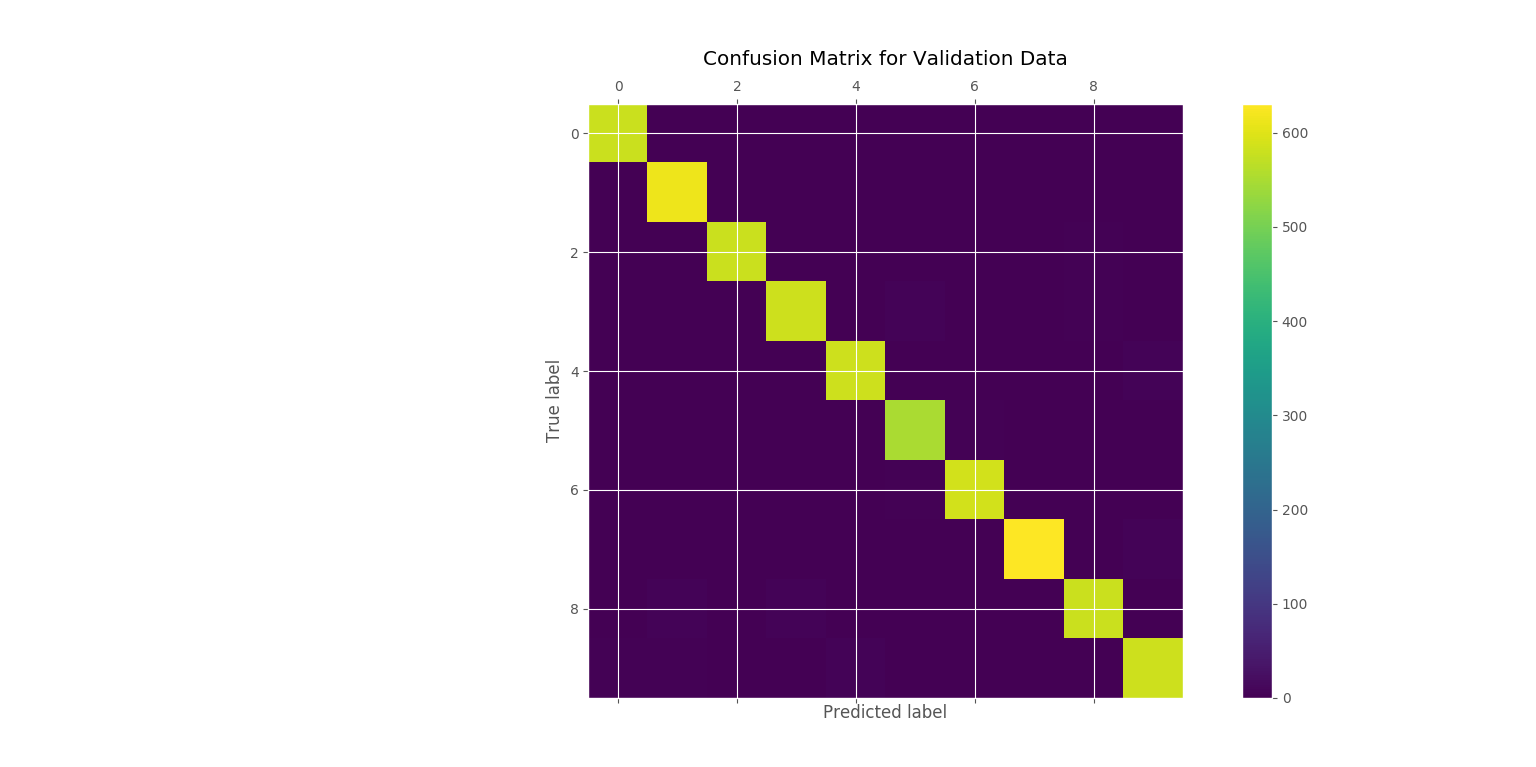
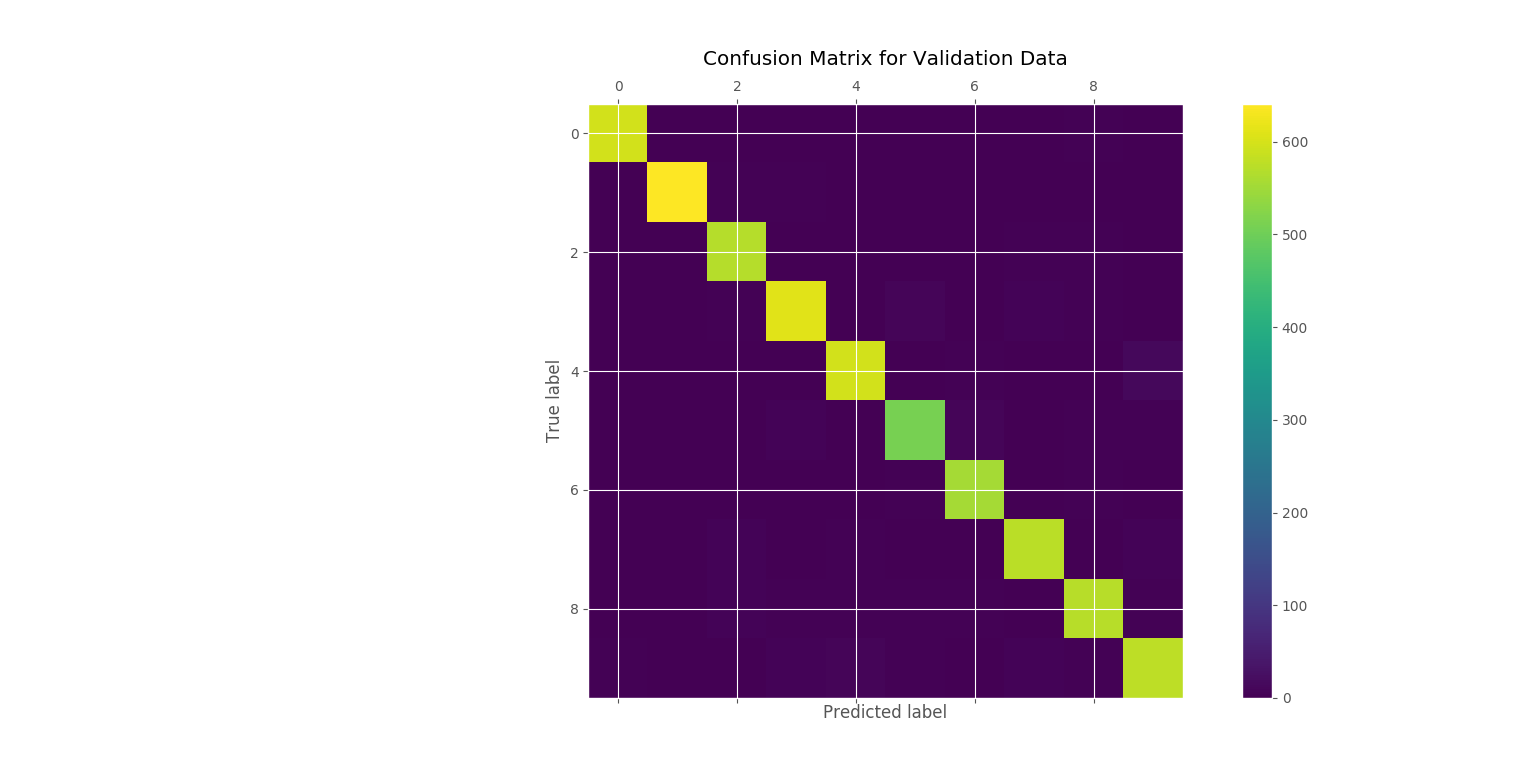
Add files via upload

Changed region(s): [[0.5625, 0.5098, 0.7188, 0.7797]]

diff --git a/RFC.py b/RFC.py
@@ -1,0 +1,119 @@
+# Random Forest Classifier
+
+import sys
+import numpy as np
+import pickle
+from sklearn import model_selection
+from sklearn.ensemble import RandomForestClassifier
+from sklearn.metrics import accuracy_score, confusion_matrix
+from MNIST_Dataset_Loader.mnist_loader import MNIST
+import matplotlib.pyplot as plt
+from matplotlib import style
+style.use('ggplot')
+
+
+
+old_stdout = sys.stdout
+log_file = open("summary.log","w")
+sys.stdout = log_file
+
+
+print('\nLoading MNIST Data...')
+# data = MNIST('./python-mnist/data/')
+
+data = MNIST('./MNIST_Dataset_Loader/dataset/')
+
+print('\nLoading Training Data...')
+img_train, labels_train = data.load_training()
+train_img = np.array(img_train)
+train_labels = np.array(labels_train)
+
+print('\nLoading Testing Data...')
+img_test, labels_test = data.load_testing()
+test_img = np.array(img_test)
+test_labels = np.array(labels_test)
+
+
+#Features
+X = train_img
+
+#Labels
+y = train_labels
+
+print('\nPreparing Classifier Training and Validation Data...')
+X_train, X_test, y_train, y_test = model_selection.train_test_split(X,y,test_size=0.1)
+
+
+print('\nRandom Forest Classifier with n_estimators = 100, n_jobs = 10')
+print('\nPickling the Classifier for Future Use...')
+clf = RandomForestClassifier(n_estimators=100, n_jobs=10)
+clf.fit(X_train,y_train)
+
+with open('MNIST_RFC.pickle','wb') as f:
+	pickle.dump(clf, f)
+
+pickle_in = open('MNIST_RFC.pickle','rb')
+clf = pickle.load(pickle_in)
+
+print('\nCalculating Accuracy of trained Classifier...')
+confidence = clf.score(X_test,y_test)
+
+print('\nMaking Predictions on Validation Data...')
+y_pred = clf.predict(X_test)
+
+print('\nCalculating Accuracy of Predictions...')
+accuracy = accuracy_score(y_test, y_pred)
+
+print('\nCreating Confusion Matrix...')
+conf_mat = confusion_matrix(y_test,y_pred)
+
+print('\nRFC Trained Classifier Confidence: ',confidence)
+print('\nPredicted Values: ',y_pred)
+print('\nAccuracy of Classifier on Validation Image Data: ',accuracy)
+print('\nConfusion Matrix: \n',conf_mat)
+
+
+# Plot Confusion Matrix Data as a Matrix
+plt.matshow(conf_mat)
+plt.title('Confusion Matrix for Validation Data')
+plt.colorbar()
+plt.ylabel('True label')
+plt.xlabel('Predicted label')
+plt.show()
+
+
+print('\nMaking Predictions on Test Input Images...')
+test_labels_pred = clf.predict(test_img)
+
+print('\nCalculating Accuracy of Trained Classifier on Test Data... ')
+acc = accuracy_score(test_labels,test_labels_pred)
+
+print('\n Creating Confusion Matrix for Test Data...')
+conf_mat_test = confusion_matrix(test_labels,test_labels_pred)
+
+print('\nPredicted Labels for Test Images: ',test_labels_pred)
+print('\nAccuracy of Classifier on Test Images: ',acc)
+print('\nConfusion Matrix for Test Data: \n',conf_mat_test)
+
+# Plot Confusion Matrix for Test Data
+plt.matshow(conf_mat_test)
+plt.title('Confusion Matrix for Test Data')
+plt.colorbar()
+plt.ylabel('True label')
+plt.xlabel('Predicted label')
+plt.axis('off')
+plt.show()
+
+sys.stdout = old_stdout
+log_file.close()
+
+
+# Show the Test Images with Original and Predicted Labels
+a = np.random.randint(1,30,10)
+for i in a:
+	two_d = (np.reshape(test_img[i], (28, 28)) * 255).astype(np.uint8)
+	plt.title('Original Label: {0}  Predicted Label: {1}'.format(test_labels[i],test_labels_pred[i]))
+	plt.imshow(two_d, interpolation='nearest',cmap='gray')
+	plt.show()
+#------------------------- EOC -----------------------------
+
